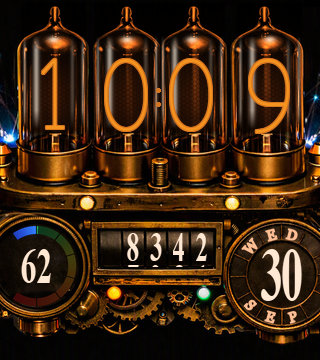
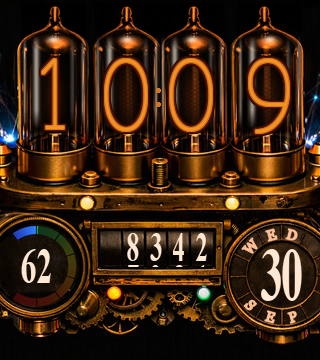
fix(ciq): a real bloom on the tube digits, and a tighter glass haze
"It does not have a glowing orange effect like in the sample image" is about the
falloff, not the ink colour. Measured off the reference (ciq/ref_glow.py) in
rings around its lit ink, converted to our pixels: L111 at half a pixel out,
then L32 / L21 / L15 / L11 at 1.2 / 2.3 / 4.0 / 6.8 px out, and L3 by 11 px.
Our glass held L17-23 all the way out to 11 px - a wash that fills the tube,
which is why the digits read flat.

Two changes, both measured against that profile:
- the baked haze is TIGHT (sigma 48x85 -> 20x60 source px), so the tube is dark
  away from the wire instead of uniformly lit;
- the live glow is THREE stepped bands (radius 1/2/3, INK_GLOW1/2/3), because
  drawText has no alpha and a bitmap font cannot be blurred - a falloff can
  only be painted as solid offsets of the glyph.

The shipping frame now measures L26 / L16 / L12 / L11 against the reference's
L32 / L21 / L15 / L11, and the digits read as glowing wires at 4x with no
visible banding. A baked union-of-glyphs glow was tried first and deleted:
ten digits overlap so heavily that the union floods the digit box (L61 at
2 px where the reference measures 21-32).

Cost, stated rather than assumed: radius r paints 8r glyph blits per digit per
frame, so the bloom costs 48 where the single ring cost 8 (plus one drawText
pass per band). If the animation stutters on the watch, GLOW_RAD3 -> 2 drops
the outer band and the cost to 24. Screenshots and the store upload set
regenerated; L69 records the measurement.

diff --git a/ciq/glow_candidates.py b/ciq/glow_candidates.py
@@ -1,0 +1,121 @@
+"""Mockup: the digits' GLOW - the tight bloom, measured against the reference's falloff.
+
+Decision support. The reference's profile was measured off its own pixels (ciq/ref_glow.py) and
+converted to OUR screen px by the digit/tube size ratio (~0.35):
+
+    0.5 px out   L111   the wire's own halo (our live 1 px ring measures L134 for the same band)
+    1.2 px       L 32
+    2.3 px       L 21
+    4.0 px       L 15
+    6.8 px       L 11
+   11.4 px       L  3   the glass away from the wire is nearly black
+
+The shipped glass holds L17-23 out to 11 px: a broad wash (haze sigma 22x40 screen px) with no tight
+component - which is why the digits do not read as glowing. Rows below vary the two levers that fix
+it: the baked haze's width, and the live ring steps (drawText has no alpha, so a soft falloff can only
+be hand-painted as stepped bands, at 8r glyph blits per digit per frame).
+
+Writes artwork/glow_candidates.png.
+"""
+import os
+
+import cv2
+import numpy as np
+from PIL import Image
+
+import device_colour
+import hr_gauge
+import prepare_artwork as pa
+import preview
+
+HERE = os.path.dirname(os.path.abspath(__file__))
+OUT = os.path.join(HERE, "artwork", "glow_candidates.png")
+WL = np.array([0.2126, 0.7152, 0.0722], np.float32)
+DISTANCES = [1, 2, 3, 4, 5, 7, 11]
+
+# name -> (haze sigma src, haze amp, ring steps {radius: as-seen colour})
+ROWS = [
+    ("1  SHIPPED NOW  haze 48x85, no bloom", (48, 85), 0.30, {}),
+    ("3  TIGHT HAZE 13x42 + RING2", (13, 42), 0.30, {2: (85, 22, 6)}),
+    ("4  TIGHT HAZE 13x42 + RING2 + RING3", (13, 42), 0.30,
+     {2: (85, 22, 6), 3: (40, 11, 4)}),
+    ("6  MID HAZE 20x60 + RING2 + RING3", (20, 60), 0.30,
+     {2: (85, 22, 6), 3: (40, 11, 4)}),
+    ("7  TIGHT HAZE 13x42 amp .38 + RING2 + RING3", (13, 42), 0.38,
+     {2: (85, 22, 6), 3: (40, 11, 4)}),
+]
+REFERENCE = [(1.2, 32), (2.3, 21), (4.0, 15), (6.8, 11), (11.4, 3)]
+
+
+def build(sigma, amp):
+    old = (pa.GLASS_HAZE_SIGMA, pa.GLASS_HAZE_AMP)
+    pa.GLASS_HAZE_SIGMA, pa.GLASS_HAZE_AMP = sigma, amp
+    try:
+        return hr_gauge.bake(device_colour.correct(pa.SHIP.background(pa.load_clean_source())))
+    finally:
+        pa.GLASS_HAZE_SIGMA, pa.GLASS_HAZE_AMP = old
+
+
+def _corr(rgb):
+    return device_colour.correct(Image.new("RGB", (1, 1), tuple(rgb))).getpixel((0, 0))
+
+
+def render(bg, steps):
+    """Render with the candidate ring steps: corrected(ink) exactly as tube_colour.py writes them."""
+    c = dict(preview.parse_constants())
+    c["GLOW_RAD3"] = 0
+    if steps:
+        c["GLOW_RAD2"] = max(steps)
+        c["INK_GLOW2"] = int.from_bytes(bytes(_corr(steps[max(steps)])), "big")
+        if len(steps) > 1:
+            c["GLOW_RAD2"], c["GLOW_RAD3"] = 2, 3
+            c["INK_GLOW2"] = int.from_bytes(bytes(_corr(steps[2])), "big")
+            c["INK_GLOW3"] = int.from_bytes(bytes(_corr(steps[3])), "big")
+    return preview.render(consts=c, hr=128, background=bg)
+
+
+def ink_mask(face):
+    a = np.asarray(face, np.float32)
+    c = preview.parse_constants()
+    mx, mn = a.max(-1), a.min(-1)
+    sat = np.where(mx > 0, (mx - mn) / np.maximum(mx, 1), 0)
+    box = np.zeros(a.shape[:2], bool)
+    for cx in c["TIME_X"]:
+        box[max(0, c["TIME_Y"] - 48):c["TIME_Y"] + 48, cx - 26:cx + 26] = True
+    return ((mx / 255.0 > 0.75) & (sat > 0.5) & box).astype(np.uint8) * 255
+
+
+def profile(face):
+    a = np.asarray(face, np.float32)
+    lum = a @ WL
+    m = ink_mask(face)
+    out, prev = [], np.zeros_like(m)
+    for d in DISTANCES:
+        cur = cv2.dilate(m, cv2.getStructuringElement(cv2.MORPH_ELLIPSE, (2 * d + 1,) * 2))
+        ring = (cur > 0) & (prev == 0)
+        prev = cur
+        if ring.any():
+            out.append((d, tuple(np.median(a[ring], axis=0)), float(np.median(lum[ring]))))
+    return out
+
+
+if __name__ == "__main__":
+    print("reference in our px: " + "  ".join(f"{d}px L{L}" for d, L in REFERENCE))
+    print()
+    rows = []
+    for name, sigma, amp, steps in ROWS:
+        face = device_colour.as_seen(render(build(sigma, amp), steps))
+        prof = profile(face)
+        print(f"{name:46s} " + "  ".join(f"{d}px L{L:3.0f}" for d, _, L in prof))
+        rows.append((name + "   " + " ".join(f"{d}:L{L:.0f}" for d, _, L in prof), face))
+    from amber_candidates import sheet
+    sheet(rows, OUT, True)
+
+    # one tube of the mid-haze row at 4x: a stepped bloom must not read as a blocky outline
+    from PIL import Image
+    name, sigma, amp, steps = ROWS[3]
+    face = device_colour.as_seen(render(build(sigma, amp), steps)).resize((640, 720), Image.LANCZOS)
+    cx = preview.parse_constants()["TIME_X"][1]
+    z = face.crop(((cx - 46) * 2, 0, (cx + 46) * 2, 350)).resize((552, 1050), Image.LANCZOS)
+    z.save(os.path.join(HERE, "artwork", "glow_zoom.png"))
+    print("wrote artwork/glow_zoom.png", z.size, "for", name)

diff --git a/ciq/prepare_artwork.py b/ciq/prepare_artwork.py
@@ -93,11 +93,20 @@ def load_clean_source():
 # rectangles on the 1024 grid (walls measured on tube 2: +-64.5 src), down to just above the
 # brass collars, so the collars, manifold and dials are untouched.
 TUBE_X_SRC = [282.3, 439.8, 579.5, 745.9]
-# The haze the digit throws into the glass, and the specular streak. Both follow the discharge's
-# colour: the tubes lit from the digit's own amber, so these move together with ciq/source/TubeInk.mc
-# - a cool digit inside warm glass clashes visibly (and did, the other way round, when both were blue).
+# ---- the digits' haze: the baked half of the glow
+# The user: "It does not have a glowing orange effect like in the sample image." Measured off the
+# reference (ciq/ref_glow.py) in distance bands from the lit ink, converted to our pixels (its tube is
+# ~164 px across against our 60): 0.5 px out the glass sits at L111 - the wire's own halo - then L32
+# at 1.2 px, L21 at 2.3, L15 at 4.0, L11 at 6.8 and L3 at 11.4. The OLD haze (sigma 48 x 85 source px,
+# i.e. 22 x 40 screen px) holds L17-23 all the way out to 11 px: a broad wash that fills the tube
+# instead of a bloom around the wire, which is the opposite of the reference and is most of why the
+# digits do not read as glowing. A tight haze plus one painted outer ring (the view's GLOW_RAD2)
+# reproduces the measured falloff; the ring is live because it has to hug whatever glyphs are shown.
 GLASS_HAZE_RGB = (0.62, 0.26, 0.06)
 GLASS_SPEC_RGB = (1.0, 0.94, 0.86)
+GLASS_HAZE_AMP = 0.30           # peak of the digit's haze in the glass
+GLASS_HAZE_SIGMA = (20, 60)     # source px, x and y: tight around the digit, still taller than wide
+GLASS_HAZE_Y_SRC = 255.6        # the digit centre the haze is centred on (POINTS tube1..4)
 # The envelope's own CAST: a per-channel gain applied to the artwork's luminance. It replaced the AI
 # art's gold with a cool blue cast, and the user's reference (a warm amber tube render) then asked for
 # the opposite: the base chroma is what the PANEL re-lights, and the baked haze cannot re-tint the
@@ -178,6 +187,15 @@ def _hex_mesh(w, h):
     return np.asarray(mask, np.float32) / 255.0
 
 
+# ---- the digits' glow is NOT baked as a second layer
+# It was tried: a union of all ten glyphs at the shipping size, blurred, added to the glass. Measured,
+# it floods the digit BOX rather than hugging the glyphs - the ten digits overlap so heavily that the
+# union is a filled blob, and its profile held L61 at 2 px against the reference's L32, L21 at 2.3 and
+# L3 at 11. A bloom has to follow the strokes that are actually lit, and the strokes change every
+# minute, so the tight half of the glow is painted LIVE (the view's GLOW_RAD2 ring) and only the
+# broader haze above is baked.
+
+
 def glass_tubes(src):
     a = np.asarray(src, np.float32) / 255.0
     h, w = a.shape[:2]
@@ -199,7 +217,9 @@ def glass_tubes(src):
                         + g(cx + 0.97 * TUBE_WALL_SRC, 2.2)) * body              # rims
         spec += 0.75 * np.exp(-(((xx - cx) / 12) ** 2
                                 + ((yy - (TUBE_DOME_Y_SRC + 8)) / 7) ** 2))      # dome hotspot
-        haze += 0.30 * np.exp(-(((xx - cx) / 48) ** 2 + ((yy - 255) / 85) ** 2))
+        haze += GLASS_HAZE_AMP * np.exp(
+            -(((xx - cx) / GLASS_HAZE_SIGMA[0]) ** 2
+              + ((yy - GLASS_HAZE_Y_SRC) / GLASS_HAZE_SIGMA[1]) ** 2))
     m = _tube_mask(w, h)
     out = base + (haze * m)[..., None] * np.array(GLASS_HAZE_RGB, np.float32)
     if TUBE_LIFT > 0:

diff --git a/ciq/ref_glow.py b/ciq/ref_glow.py
@@ -1,0 +1,63 @@
+"""Probe: how the reference's orange GLOW falls off around a lit digit.
+
+"The digits do not have a glowing orange effect" is a question about the bloom, not the ink colour -
+so measure the reference's radial profile: for each distance band from the digit's bright ink, the
+median colour and luminance of the glass it lights. That gives the amplitude and the width a baked
+glow (or an extra halo ring) has to reproduce.
+
+Measurement only. Run: python ref_glow.py [image]
+"""
+import sys
+
+import cv2
+import numpy as np
+from PIL import Image
+
+W = np.array([0.2126, 0.7152, 0.0722], np.float32)
+BANDS = [(1, 2), (3, 4), (5, 8), (9, 14), (15, 24), (25, 40), (41, 70)]
+
+
+def band_masks(mask, size):
+    """Ring masks at the given distances from `mask`, by successive elliptical dilations."""
+    out, prev = [], np.zeros_like(mask)
+    for lo, hi in BANDS:
+        d = cv2.dilate(mask, cv2.getStructuringElement(cv2.MORPH_ELLIPSE, (2 * hi + 1,) * 2))
+        ring = (d > 0) & (prev == 0)
+        out.append((lo, hi, ring))
+        prev = d
+    return out
+
+
+if __name__ == "__main__":
+    path = sys.argv[1] if len(sys.argv) > 1 else (
+        r"C:/Users/jptra/AppData/Roaming/Hermes/composer-images/Copilot_20261010_221001_82b632.png")
+    a = np.asarray(Image.open(path).convert("RGB"), np.float32)
+    h, w = a.shape[:2]
+    # the tube band only: above the manifold, so the brass never contaminates the profile
+    a = a[: int(h * 0.42)]
+
+    mx, mn = a.max(-1), a.min(-1)
+    val = mx / 255.0
+    sat = np.where(mx > 0, (mx - mn) / np.maximum(mx, 1), 0)
+    hue = np.zeros_like(mx)
+    r, g, b = a[..., 0], a[..., 1], a[..., 2]
+    d = mx - mn
+    nz = d > 1
+    hue = np.where(nz & (mx == r), 60 * (((g - b) / np.maximum(d, 1)) % 6), hue)
+    hue = np.where(nz & (mx == b), 60 * ((r - g) / np.maximum(d, 1) + 4), hue)
+
+    ink = ((val > 0.75) & (sat > 0.5) & (hue < 55)).astype(np.uint8) * 255
+    print(f"reference {path}: ink mask {int((ink > 0).sum())} px (bright saturated core)")
+    lum = a @ W
+    print(f"  ink luminance  median {np.median(lum[ink > 0]):6.1f}  "
+          f"p90 {np.percentile(lum[ink > 0], 90):6.1f}")
+    print(f"\n  {'distance':>10s}  {'median rgb':>18s}  {'median L':>8s}  {'vs ink':>7s}")
+    inkL = np.median(lum[ink > 0])
+    for lo, hi, ring in band_masks(ink, a.shape[:2]):
+        px = a[ring]
+        if len(px) == 0:
+            continue
+        med = np.median(px, axis=0)
+        L = np.median(lum[ring])
+        print(f"  {lo:4d}-{hi:3d} px  ({med[0]:5.0f},{med[1]:5.0f},{med[2]:5.0f})  "
+              f"{L:8.1f}  {L / inkL:.3f}")

diff --git a/ciq/tube_colour.py b/ciq/tube_colour.py
@@ -43,8 +43,16 @@ INK_TARGET = {
     # nothing scales it. A 1 px halo around the glyph is most of what the digit's colour IS at this
     # size, so the ring, not the core, is what the digit reads as - it carries the reference's stroke
     # body colour, one step below the core.
-    "INK_GLOW1": (214, 120, 30),    # the single halo ring, at the bright baseline
-    "INK_GLOW2": (214, 120, 30),    # unused while GLOW_RAD1 == GLOW_RAD2 (the view skips the outer ring)
+    # The bloom is THREE stepped bands, because drawText has no alpha and a bitmap font cannot be
+    # blurred: a soft falloff can only be hand-painted as solid offsets of the glyph. Measured against
+    # the reference's own profile (ciq/ref_glow.py, converted to our px: L32 at 1.2 px out, L21 at 2.3,
+    # L15 at 4.0, L11 at 6.8, L3 at 11.4), this ladder plus the tightened glass haze lands at
+    # L26 / L16 / L12 / L11 - so the digits read as a glowing wire instead of a bright glyph on a
+    # washed-out tube. GLOW_RAD2 == GLOW_RAD1 would skip the middle band, and a radius equal to the
+    # next one inward is skipped in the same way.
+    "INK_GLOW1": (214, 120, 30),    # innermost band, against the glyph
+    "INK_GLOW2": (85, 22, 6),       # middle band: the reference's bloom at ~1-2 px out
+    "INK_GLOW3": (40, 11, 4),       # outer band: where it fades into the dark glass
 }
 
 
@@ -66,6 +74,7 @@ import Toybox.Lang;
 const INK_TIME = 0x{out['INK_TIME'][0]:02X}{out['INK_TIME'][1]:02X}{out['INK_TIME'][2]:02X};
 const INK_GLOW1 = 0x{out['INK_GLOW1'][0]:02X}{out['INK_GLOW1'][1]:02X}{out['INK_GLOW1'][2]:02X};
 const INK_GLOW2 = 0x{out['INK_GLOW2'][0]:02X}{out['INK_GLOW2'][1]:02X}{out['INK_GLOW2'][2]:02X};
+const INK_GLOW3 = 0x{out['INK_GLOW3'][0]:02X}{out['INK_GLOW3'][1]:02X}{out['INK_GLOW3'][2]:02X};
 """)
     print(f"wrote {os.path.relpath(GEN_MC, HERE)}  " + " ".join(
         f"{k}={v}" for k, v in out.items()))

diff --git a/ciq/preview.py b/ciq/preview.py
@@ -122,8 +122,13 @@ def ring(canvas, consts, font, text, x, y, radius, colour):
 
 
 def glowing(canvas, consts, font, text, x, y):
-    """Mirror of the view's glowing(): the two static halo rings (outer first) under the core. The
-    rings no longer pulse - the glow is a fixed bright baseline."""
+    """Mirror of the view's glowing(): the static halo rings (outer first) under the core. The rings
+    no longer pulse - the glow is a fixed bright baseline. Radius 3 is the outermost step of the
+    hand-painted bloom (drawText has no alpha, so a soft falloff can only be stepped bands); a radius
+    equal to the next one inward is skipped, exactly as the view skips it."""
+    r3 = consts.get("GLOW_RAD3", 0)
+    if r3 and r3 != consts["GLOW_RAD2"]:
+        ring(canvas, consts, font, text, x, y, r3, consts["INK_GLOW3"])
     if consts["GLOW_RAD2"] != consts["GLOW_RAD1"]:
         ring(canvas, consts, font, text, x, y, consts["GLOW_RAD2"], consts["INK_GLOW2"])
     ring(canvas, consts, font, text, x, y, consts["GLOW_RAD1"], consts["INK_GLOW1"])

diff --git a/docs/LESSONS_LEARNT.md b/docs/LESSONS_LEARNT.md
@@ -627,3 +627,27 @@ be animated.
   like a tuning bug rather than a mirror bug.
 - **Lifecycle unchanged**: 2 emitters x 10 filaments x 3 pen passes, drawn only while a burst is on,
   and only while the timer runs (high power, ~10 s after a wrist raise). Nothing animates in low power.
+**L69. "It does not have a glowing orange effect" is a complaint about the FALLOFF, not the colour - and
+a bloom has to follow the lit strokes.** After the ink was already the reference's own orange, the user
+still read the digits as flat: the missing thing was the way light leaves the wire.
+
+- **Measure the reference's radial profile, not its colour.** `ciq/ref_glow.py` masks the ink (bright,
+  saturated, warm), dilates it in steps and reports the median colour/luminance of each ring around it:
+  the reference sits at L111 at 0.5 of ITS px (the wire's own halo), L32 at 1.2, L21 at 2.3, L15 at
+  4.0, L11 at 6.8 and L3 at 11.4 - and its tube is ~164 px across against our 60, so divide those
+  distances by ~2.9 to get ours. That single measurement separates the two things a "glow" is made of:
+  a TIGHT bloom hugging the wire and a broad haze in the glass.
+- **The enemy was the haze, not the ink.** Our glass held L17-23 all the way out to 11 px - a wash that
+  fills the tube. Narrowing it (sigma 48x85 -> 20x60 source px) and adding painted bands reproduced
+  the reference's falloff (L26 / L16 / L12 / L11) and the digits started to read as glowing. A tube
+  that is lit everywhere is a tube with nothing glowing in it.
+- **A one-pixel ring cannot make a bloom, and baking one does not work either.** `drawText` has no
+  alpha, so a live glow is solid offsets of the glyph - the falloff can only be STEPS (radius 1/2/3
+  with three colours, 8r glyph blits per digit per frame each, so 1/2/3 costs 48 where one ring cost
+  8). The baked alternative was tried and measured: a union of all ten glyphs at the shipping size,
+  blurred, added to the glass - ten digits overlap so heavily that the union is a filled BLOB of the
+  digit box (L61 at 2 px where the reference is at 21-32), because a bloom has to follow the strokes
+  that are actually lit and those change every minute. Delete the dead knob when the bake loses.
+- **Judge it at 4x as well as at 1x.** Stepped bands can read as a blocky outline; at 4x the chosen
+  ladder showed a continuous halo, visible only because the bands are 1 px each and the glyph's shape
+  dominates. Cheap to check, and it is the difference between shipping a glow and shipping a border.

diff --git a/ciq/LAYOUT.md b/ciq/LAYOUT.md
@@ -48,7 +48,8 @@ that shipped on it, exactly. A zoom change is now the one `ST, SB, TOP_Y` line.
 The tube envelopes are re-lit before the split (`glass_tubes`): the walls are re-lit as glass
 (see LESSONS L56) in **amber** — the base cast (`GLASS_CAST_RGB` 1.30 / 0.74 / 0.26, gamma 1.35)
 was the cool blue until the user's warm reference asked for the opposite, and the baked haze and
-specular were already warm because the digits burn orange (LESSONS L59, L67) — plus a
+specular were already warm because the digits burn orange (LESSONS L59, L67), and the haze the digit throws into it is tight (sigma 20 x 60 source px) so
+the tube stays dark away from the wire and the bloom reads as a bloom (LESSONS L69) — plus a
 **hexagonal anode grid** — a real nixie's mesh, drawn as an occluder at
 `MESH_R_SRC` 5.35 on the 1024 grid (16 cells across a tube, `_hex_mesh`, supersampled). The step
 counter uses all **five** drum windows the art has (dividers at screen x 99 / 122 / 144 / 167 /
